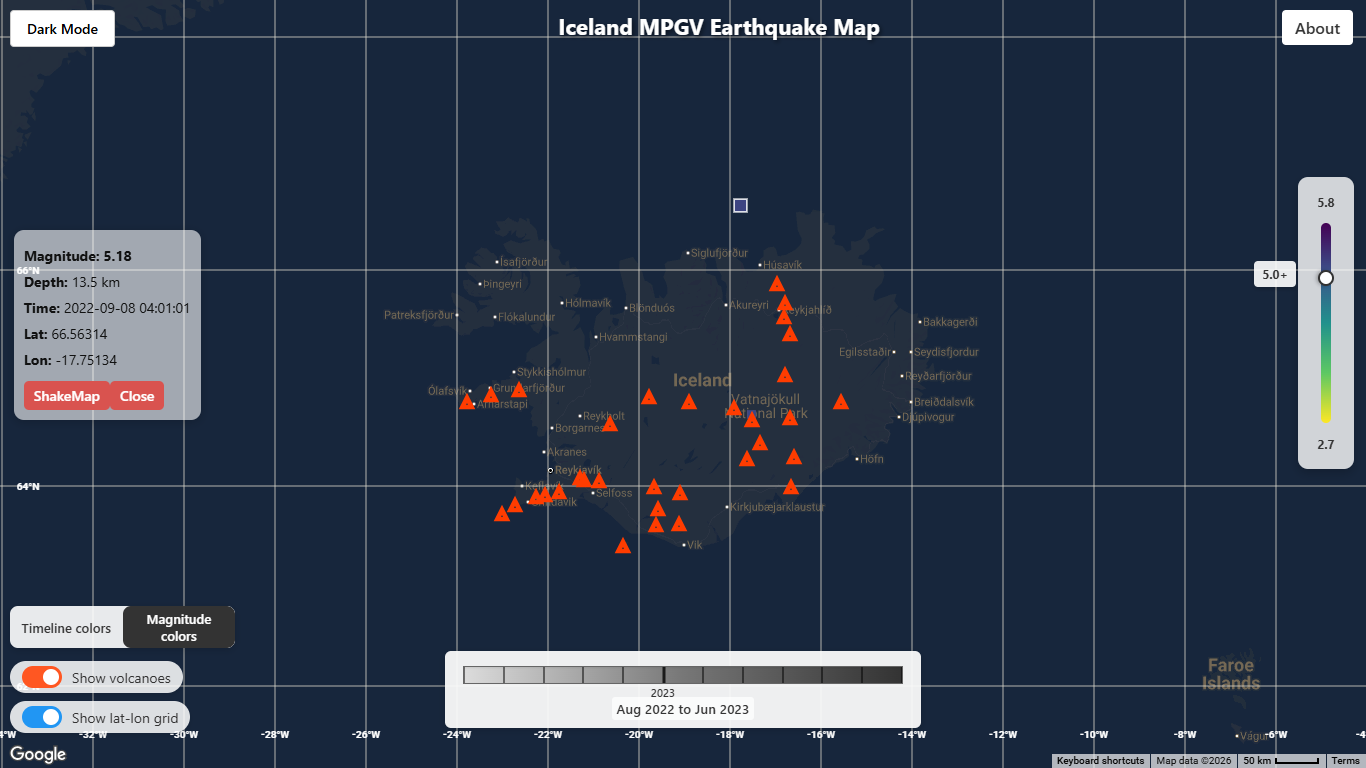
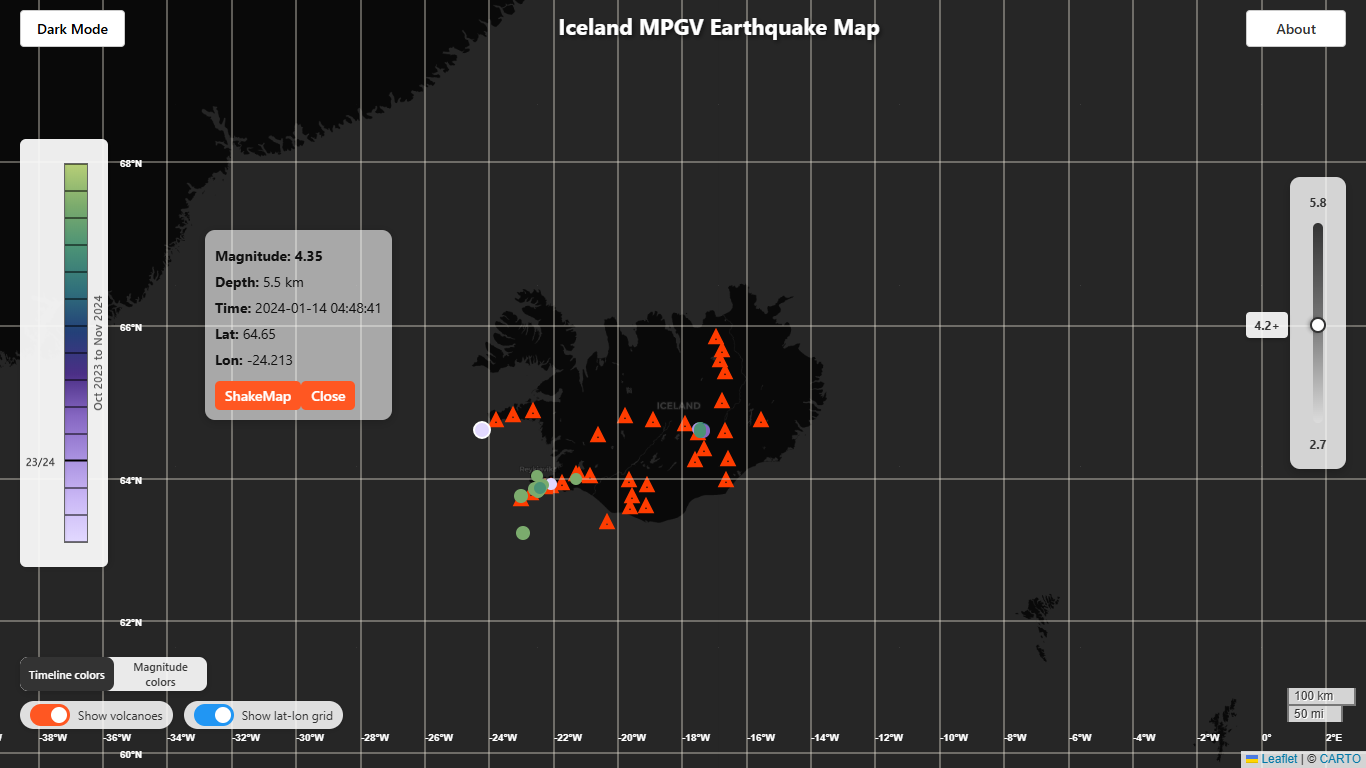
Updates from Overleaf

diff --git a/MPGV Monitor.tex b/MPGV Monitor.tex
@@ -573,23 +573,6 @@ Using Python libraries such as \texttt{requests}, \texttt{BeautifulSoup}, and \t
 
 The initial dataset contained 30 entries, which were reduced to 15 after filtering. Although limited in scope, this experiment confirmed that automated scraping was viable, that the MPGV HTML tables were sufficiently stable for programmatic parsing, and that the extracted attributes (date--time, latitude, longitude, depth, magnitude) could be normalized for further processing.
 
-\textbf{Flowchart of Initial Approach}
-
-\begin{center}
-\begin{tikzpicture}[node distance=2cm]
-\node (start)    [startstop] {Start};
-\node (fetchurl) [process, below of=start] {Fetch October 2023 Page};
-\node (parsehtml)[process, below of=fetchurl] {Parse HTML for Table};
-\node (filter)   [process, below of=parsehtml] {Filter Records (Mw\_mean $\geq$ 3)};
-\node (save)     [startstop, below of=filter] {Save Cleaned Data to Text File};
-
-\draw [arrow] (start)    -- (fetchurl);
-\draw [arrow] (fetchurl) -- (parsehtml);
-\draw [arrow] (parsehtml)-- (filter);
-\draw [arrow] (filter)   -- (save);
-\end{tikzpicture}
-\end{center}
-
 This first prototype treated the MPGV archive as a static data source and did not attempt to maintain a historical catalogue or support continuous updates. Nevertheless, it provided a concrete starting point for designing a more general data pipeline.
 
 \vspace{0.4cm}
@@ -635,24 +618,13 @@ On the other hand, several issues emerged as the dataset grew. Maintaining synch
 
 \textbf{Flowchart of CSV-Based Approach}
 
-\begin{center}
-\begin{tikzpicture}[node distance=2cm]
-\node (start)    [startstop] {Start};
-\node (fetch)    [process, below of=start] {Fetch Base URL};
-\node (parse)    [process, below of=fetch] {Parse Year \& Month};
-\node (extract)  [process, below of=parse] {Extract Data};
-\node (filter)   [process, below of=extract] {Filter (Mw\_mean $\geq$ 3)};
-\node (aggregate)[process, below of=filter] {Aggregate All Records};
-\node (save)     [startstop, below of=aggregate] {Save to CSV};
+\vspace{0.7cm}
 
-\draw [arrow] (start)    -- (fetch);
-\draw [arrow] (fetch)    -- (parse);
-\draw [arrow] (parse)    -- (extract);
-\draw [arrow] (extract)  -- (filter);
-\draw [arrow] (filter)   -- (aggregate);
-\draw [arrow] (aggregate)-- (save);
-\end{tikzpicture}
-\end{center}
+\begin{figure}[H]
+
+\centering    \includegraphics[width=0.3\textwidth, height=12cm]{Screenshots/CSV-based solution.png}
+
+\end{figure}
 
 The CSV-based solution therefore formed an important intermediate step: it demonstrated that the full MPGV archive could be harvested automatically and analysed as a coherent dataset, while highlighting the need for a database-backed backend that could handle concurrent access and automated updates.
 
@@ -698,26 +670,13 @@ At this stage, it is useful to view reconciliation primarily as a \emph{data int
 
 The overall workflow of the current pipeline can be summarised as a recurring multi-source process that culminates in a single display catalogue:
 
-\begin{center}
-\begin{tikzpicture}[node distance=2cm]
+\vspace{0.7cm}
 
-\node (start)    [startstop] {Periodic Trigger};
-\node (mpgv)     [process, below of=start] {Scrape MPGV HTML};
-\node (skjalfta) [process, below of=mpgv] {Fetch Skjálftalísa JSON Data};
-\node (store)    [process, below of=skjalfta] {Store Source Tables (MPGV, SRaw)};
-\node (merge)    [process, below of=store] {Reconcile and Merge V$\oplus$S};
-\node (sqlite)   [process, below of=merge] {Write Unified Catalogue};
-\node (end)      [startstop, below of=sqlite] {Catalogue Ready for Frontend};
+\begin{figure}[H]
 
-\draw [arrow] (start)    -- (mpgv);
-\draw [arrow] (mpgv)     -- (skjalfta);
-\draw [arrow] (skjalfta) -- (store);
-\draw [arrow] (store)    -- (merge);
-\draw [arrow] (merge)    -- (sqlite);
-\draw [arrow] (sqlite)   -- (end);
+\centering    \includegraphics[width=0.3\textwidth, height=12cm]{Screenshots/Data_pipeline.png}
 
-\end{tikzpicture}
-\end{center}
+\end{figure}
 
 In the deployed system, the unified catalogue is exposed to the React frontend through RESTful API endpoints and rendered on an interactive Leaflet-based map. The design choice to separate ingestion, reconciliation, and delivery into distinct stages makes it easier to evolve each component independently. For example, additional data sources or alternative matching strategies can be incorporated without changing the general flow from raw source tables to a merged, visualisation-ready dataset. Similarly, the recent migration of the frontend rendering layer from Google Maps to Leaflet required no modifications to the data pipeline or API contracts.
 
@@ -735,98 +694,14 @@ The backend of the \textbf{MPGV Monitor} system is implemented as a persistent F
 
 At a high level, the backend operates through several interconnected layers, illustrated in Figure~\ref{fig:system-architecture}. Source-specific ingestion modules collect information from MPGV, Skjálftalísa, and EPOS endpoints; a reconciliation layer matches and merges events from the two seismic catalogues; a validation layer associates EPOS ShakeMaps with merged events; and the resulting products are stored in an SQLite database and exposed to the React frontend through a JSON-based API. These components run continuously under the coordination of \texttt{APScheduler}, which triggers the automated update cycle every three minutes and keeps the local catalogue synchronized with the external services.
 
-\vspace{0.4cm}
+\vspace{0.7cm}
 
 \begin{figure}[H]
-\centering
-\begin{tikzpicture}[
-    node distance=1.6cm and 2.8cm,
-    ext/.style={rectangle, rounded corners, draw=black, fill=orange!20,
-                minimum width=2.4cm, minimum height=0.9cm, text centered, font=\small},
-    mod/.style={rectangle, draw=black, fill=blue!15,
-                minimum width=2.4cm, minimum height=0.9cm, text centered, font=\small},
-    db/.style={rectangle, draw=black, fill=green!15,
-               minimum width=2.4cm, minimum height=0.9cm, text centered, font=\small},
-    api/.style={rectangle, draw=black, fill=yellow!20,
-                minimum width=3cm, minimum height=0.9cm, text centered, font=\small},
-    fe/.style={rectangle, rounded corners, draw=black, fill=red!20,
-               minimum width=3cm, minimum height=0.9cm, text centered, font=\small},
-    sched/.style={rectangle, dashed, draw=black, fill=gray!10,
-                  minimum width=2.8cm, minimum height=0.9cm, text centered, font=\small},
-    arr/.style={thick, ->, >=stealth}
-]
 
-% External sources (top row)
-\node (mpgv)  [ext]                          {MPGV HTML};
-\node (skjal) [ext, right=of mpgv]           {Skjálftalísa API};
-\node (epos)  [ext, right=of skjal]          {EPOS API};
+\centering    \includegraphics[width=\linewidth, height=12cm]{Screenshots/MPGV_sys_arc.png}
 
-% Ingestion modules (second row)
-\node (scrape)  [mod, below=of mpgv]         {\texttt{scrape.py}};
-\node (sclient) [mod, below=of skjal]        {\texttt{skjalftalisa\_client.py}};
-\node (vscrape) [mod, below=of epos]         {\texttt{volcano\_scraper.py}};
-
-% Scheduler
-\node (sched) [sched, below=1.0cm of sclient] {APScheduler (3\,min)};
-
-% DB tables (fourth row)
-\node (tblEq)  [db, below left=1.8cm and 0.8cm of sched]   {\texttt{earthquake}};
-\node (tblSR)  [db, below=1.8cm of sched]                   {\texttt{earthquake\_s\_raw}};
-\node (tblV)   [db, below right=1.8cm and 0.8cm of sched]  {\texttt{volcano}};
-
-% Reconciliation
-\node (recon) [mod, below=1.2cm of tblSR]   {\texttt{reconcile.py}};
-
-% Merged table
-\node (tblM)  [db, below=1.0cm of recon]    {\texttt{earthquake\_merged}};
-
-% ShakeMap
-\node (shake) [mod, right=2.2cm of recon]    {ShakeMap audit};
-\node (tblSM) [db, below=1.0cm of shake]     {\texttt{shakemap\_link}};
-
-% API layer
-\node (flask) [api, below=1.2cm of tblM]    {Flask API (\texttt{/earthquakes}, \texttt{/volcanoes}, ...)};
-
-% Frontend
-\node (react) [fe, below=1.0cm of flask]     {React + Leaflet frontend};
-
-% Arrows: external → modules
-\draw [arr] (mpgv)  -- (scrape);
-\draw [arr] (skjal) -- (sclient);
-\draw [arr] (epos)  -- (vscrape);
-
-% Arrows: scheduler → modules
-\draw [arr, dashed] (sched) -| (scrape);
-\draw [arr, dashed] (sched) -- (sclient);
-\draw [arr, dashed] (sched) -| (vscrape);
-
-% Arrows: modules → tables
-\draw [arr] (scrape)  -- (tblEq);
-\draw [arr] (sclient) -- (tblSR);
-\draw [arr] (vscrape) -- (tblV);
-
-% Arrows: tables → reconciliation
-\draw [arr] (tblEq) -- (recon);
-\draw [arr] (tblSR) -- (recon);
-
-% Arrows: reconciliation → merged
-\draw [arr] (recon) -- (tblM);
-
-% ShakeMap
-\draw [arr] (tblM.east) -| (shake);
-\draw [arr] (shake) -- (tblSM);
-
-% API reads from merged + volcano + shakemap
-\draw [arr] (tblM)  -- (flask);
-\draw [arr] (tblV.south) |- (flask);
-\draw [arr] (tblSM.south) |- (flask);
-
-% Frontend
-\draw [arr] (flask) -- (react);
-
-\end{tikzpicture}
 \caption{Full system architecture of MPGV Monitor, showing external data sources, ingestion modules, database tables, reconciliation pipeline, API layer, and frontend.}
-\label{fig:system-architecture}
+
 \end{figure}
 
 \subsection{Core Database Models}
@@ -984,29 +859,12 @@ In the current deployment, where the entire historical catalogue from June~2020 
 
 From an architectural viewpoint, the scheduler runs as a background component alongside the Flask application. HTTP endpoints such as \texttt{/earthquakes}, \texttt{/volcanoes}, and \texttt{/shakemap/\{dt\}} remain responsive while ingestion is in progress. Because the ingestion and reconciliation steps operate within database transactions, partial failures (for example, a temporary API outage) do not corrupt existing tables: exceptions are caught and logged, and the next scheduled cycle resumes from a clean state.
 
-\vspace{6\baselineskip}
-
+\vspace{0.7cm}
 
 \begin{figure}[H]
-\centering
-\begin{tikzpicture}[node distance=2.1cm]
 
-\node (sched)  [startstop] {APScheduler \\ (every 3 minutes)};
-\node (mpgv)   [process, below of=sched] {MPGV Scraper \\ update \texttt{earthquake}};
-\node (skj)    [process, below of=mpgv] {Skjálftalísa Client \\ update \texttt{earthquake\_s\_raw}};
-\node (merge)  [process, below of=skj] {Reconciliation Logic \\ write \texttt{earthquake\_merged}};
-\node (shake)  [process, below of=merge] {ShakeMap Validator \\ update \texttt{shakemap\_links}};
-\node (ready)  [startstop, below of=shake] {Database Ready \\ for Flask API};
-
-\draw[arrow] (sched) -- (mpgv);
-\draw[arrow] (mpgv)  -- (skj);
-\draw[arrow] (skj)   -- (merge);
-\draw[arrow] (merge) -- (shake);
-\draw[arrow] (shake) -- (ready);
-
-\end{tikzpicture}
+\centering    \includegraphics[width=0.3\textwidth, height=10cm]{Screenshots/APScheduler_working.png}
 \caption{Automated scheduling workflow coordinating ingestion, reconciliation, and ShakeMap validation.}
-\label{fig:autoschedule}
 \end{figure}
 
 \newpage
@@ -1028,75 +886,14 @@ where $\Delta t$ is the absolute difference in origin times, $\Delta d$ is the g
 
 At runtime, the system loads all Skjálftalísa detections into a time-indexed structure, enabling efficient lookup of candidate events whose timestamps differ from the corresponding MPGV event by at most two seconds. The overall reconciliation workflow is illustrated in Figure~\ref{fig:reconcile-workflow}. For each MPGV entry, the algorithm retrieves all Skjálftalísa events satisfying the temporal constraint, computes the spatial separation and magnitude deviation, filters out invalid candidates, and classifies the event as either \texttt{v\_only} or \texttt{matched}. If exactly one candidate passes all three thresholds, it is accepted as the match. If two or more candidates pass, the situation is considered ambiguous and the MPGV event falls back to \texttt{v\_only} status rather than risking a spurious association.
 
+\vspace{0.7cm}
+
 \begin{figure}[H]
-\centering
-\begin{tikzpicture}[node distance=1.8cm]
 
-% --- Top ---
-\node (start)   [startstop] {Start reconciliation};
+\centering    \includegraphics[width=\linewidth, height=20cm]{Screenshots/Reconciliation workflow.png}
 
-% --- Loading + indexing ---
-\node (loadv)   [process, below of=start] {Load MPGV events};
-\node (loads)   [process, below of=loadv] {Load Skjálftalísa events};
-\node (indexs)  [process, below of=loads] {Index Skjálftalísa by time};
-
-% --- Loop + candidate generation ---
-\node (loop)    [process, below of=indexs] {For each MPGV event};
-\node (window)  [process, below of=loop] {Find candidates in $\leq 2$ s};
-\node (metrics) [process, below of=window] {Compute $\Delta t$, distance, $\Delta Mw$};
-\node (filter)  [process, below of=metrics] {Apply thresholds};
-
-% --- Decision node (branch) ---
-\node (split)   [process, below of=filter] {Candidate count};
-
-% --- Three branches (shorter xshift) ---
-\node (zero)    [process, below of=split, xshift=-4.3cm] {0 candidates};
-\node (one)     [process, below of=split]                {1 candidate};
-\node (many)    [process, below of=split, xshift=4.6cm]  {$\geq 2$ candidates};
-
-% --- Outcomes ---
-\node (vonly)   [process, below of=zero] {Write \texttt{v\_only}};
-\node (best1)   [process, below of=one]  {Write \texttt{matched}};
-\node (resolve) [process, below of=many] {Ambiguous --- fall back};
-\node (best2)   [process, below of=resolve] {Write \texttt{v\_only}};
-
-% --- Merge + end (brought higher) ---
-\node (merged)  [process, below of=best1, yshift=-1.0cm]
-                {Update \texttt{earthquake\_merged}};
-\node (end)     [startstop, below of=merged]
-                {End};
-
-% --- Arrows: linear down ---
-\draw[arrow] (start) -- (loadv);
-\draw[arrow] (loadv) -- (loads);
-\draw[arrow] (loads) -- (indexs);
-\draw[arrow] (indexs) -- (loop);
-\draw[arrow] (loop) -- (window);
-\draw[arrow] (window) -- (metrics);
-\draw[arrow] (metrics) -- (filter);
-\draw[arrow] (filter) -- (split);
-
-% --- Branch arrows (shorter) ---
-\draw[arrow] (split) -| (zero);
-\draw[arrow] (split) -- (one);
-\draw[arrow] (split) -| (many);
-
-% --- Outcomes arrows ---
-\draw[arrow] (zero) -- (vonly);
-\draw[arrow] (one)  -- (best1);
-\draw[arrow] (many) -- (resolve);
-\draw[arrow] (resolve) -- (best2);
-
-% --- Merge arrows ---
-\draw[arrow] (vonly) |- (merged);
-\draw[arrow] (best1) -- (merged);
-\draw[arrow] (best2) |- (merged);
-
-\draw[arrow] (merged) -- (end);
-
-\end{tikzpicture}
 \caption{Reconciliation workflow with branching logic and compact layout.}
-\label{fig:reconcile-workflow}
+
 \end{figure}
 
 The corresponding Python implementation is shown below. It reflects the control flow depicted in Figure~\ref{fig:reconcile-workflow} and implements the threshold rules precisely. Diagnostic information such as time offset (\texttt{match\_dt\_sec}), epicentral distance (\texttt{match\_dist\_km}), and magnitude deviation (\texttt{match\_dm}) is stored alongside each merged event, enabling quality assessment and downstream analysis.
@@ -1155,28 +952,12 @@ For each event in the merged catalogue with origin time $t$, epicentre $(\phi, \
 
 If EPOS returns no ShakeMaps for the query window, the event is labelled \texttt{no\_candidate}. If candidates exist but none satisfy the validation thresholds, the status becomes \texttt{no\_valid}. Errors during API retrieval or metadata parsing result in the status \texttt{error}. All outcomes are preserved explicitly, ensuring transparency in downstream visualisation.
 
-\vspace{0.3cm}
+\vspace{0.7cm}
 
 \begin{figure}[H]
-\centering
-\begin{tikzpicture}[node distance=2cm]
 
-\node (start)   [startstop] {Merged Catalogue \\ (\texttt{earthquake\_merged})};
-\node (query)   [process, below of=start] {Query EPOS ShakeMap API \\ (time window \& bbox)};
-\node (filter)  [process, below of=query] {Filter Candidates \\ ($|\Delta t|$, distance, $|\Delta M|$ limits)};
-\node (select)  [process, below of=filter] {Select Best-Scoring ShakeMap \\ (time + distance + magnitude)};
-\node (update)  [process, below of=select] {Update \texttt{shakemap\_links} \\ (status, URL, diagnostics)};
-\node (front)   [startstop, below of=update] {Frontend Usage \\ (ShakeMap icons \& links)};
-
-\draw[arrow] (start)  -- (query);
-\draw[arrow] (query)  -- (filter);
-\draw[arrow] (filter) -- (select);
-\draw[arrow] (select) -- (update);
-\draw[arrow] (update) -- (front);
-
-\end{tikzpicture}
+\centering    \includegraphics[width=0.4\textwidth, height=8cm]{Screenshots/ShakeMap validation workflow.png}
 \caption{ShakeMap validation workflow: retrieving candidates from EPOS, filtering by temporal, spatial, and magnitude thresholds, selecting the best match, and caching results for frontend access.}
-\label{fig:shakemap-pipeline}
 \end{figure}
 
 \subsubsection*{Audit Mode and Evaluation Results}
@@ -1358,22 +1139,12 @@ Heatmap   & CartoDB Dark Matter (no labels) + label pane & Free tier \\
 \label{tab:tile-providers}
 \end{table}
 
+\vspace{0.7cm}
+
 \begin{figure}[H]
-\centering
-\begin{tikzpicture}[node distance=2.1cm]
 
-\node (frontend) [startstop] {React Frontend \\ (MapComponent.jsx)};
-\node (leaflet)  [process, below of=frontend] {Leaflet + react-leaflet \\ (open-source, no API key)};
-\node (tiles)    [process, below of=leaflet] {Tile Providers \\ (OSM, Esri, CartoDB)};
-\node (plugins)  [startstop, below of=tiles] {Plugins \\ (leaflet.heat, L.divIcon)};
-
-\draw[arrow] (frontend) -- (leaflet);
-\draw[arrow] (leaflet) -- (tiles);
-\draw[arrow] (tiles) -- (plugins);
-
-\end{tikzpicture}
+\centering    \includegraphics[width=0.4\textwidth, height=8cm]{Screenshots/Frontend integration.png}
 \caption{Frontend integration with the Leaflet mapping library, illustrating the open-source tile provider architecture that replaces the previous Google Maps API dependency.}
-\label{fig:leaflet_architecture}
 \end{figure}
 
 Tile layer performance is optimized through several Leaflet-specific configuration options: \texttt{updateWhenZooming=false} prevents tile reloading during zoom animations, \texttt{keepBuffer=4} pre-loads surrounding tiles to reduce blank areas during panning, and \texttt{detectRetina=false} avoids doubled tile requests on high-DPI displays. The map is configured with \texttt{preferCanvas=true}, which routes marker rendering through the HTML5 Canvas API rather than SVG, providing 3--5$\times$ faster redraws when displaying thousands of earthquake markers.
@@ -1398,26 +1169,12 @@ export async function fetchEarthquakes() {
 
 In practice, similar functions exist for volcano metadata and optional ShakeMap resources. The key point is architectural: UI components call stable functions such as \texttt{fetchEarthquakes()} rather than repeating request logic throughout the codebase.
 
+\vspace{0.7cm}
+
 \begin{figure}[H]
-\centering
-\begin{tikzpicture}[node distance=2.1cm]
 
-\node (api)      [startstop] {Flask API \\ (\texttt{/earthquakes}, \texttt{/volcanoes}, \texttt{/shakemap/...})};
-\node (apijs)    [process, below of=api] {Frontend API Layer \\ \texttt{api.js} (fetch + parse JSON)};
-\node (app)      [process, below of=apijs] {Global State \& Orchestration \\ \texttt{App.jsx}};
-\node (controls) [process, below of=app] {UI Components \\ (TimeWindow, Magnitude, Toggles, About)};
-\node (map)      [process, below of=controls] {Rendering Engine \\ \texttt{MapComponent.jsx}};
-\node (leaflet)  [startstop, below of=map] {Leaflet + react-leaflet \\ (basemap + overlays)};
-
-\draw[arrow] (api) -- (apijs);
-\draw[arrow] (apijs) -- (app);
-\draw[arrow] (app) -- (controls);
-\draw[arrow] (controls) -- (map);
-\draw[arrow] (map) -- (leaflet);
-
-\end{tikzpicture}
+\centering    \includegraphics[width=0.4\textwidth, height=10cm]{Screenshots/Frontend data flow.png}
 \caption{Frontend data flow from backend API endpoints through \texttt{api.js} into global state management in \texttt{App.jsx}, and onward to UI controls and Leaflet-based map rendering.}
-\label{fig:frontend_dataflow}
 \end{figure}
 
 \subsection{Top-Level Orchestration}
